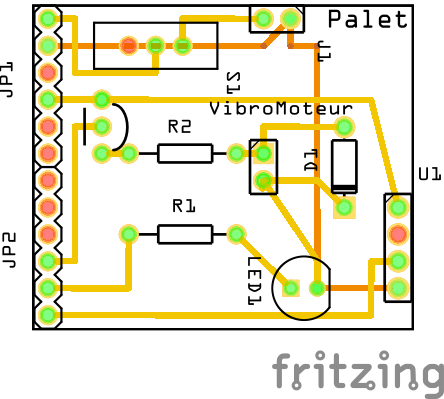
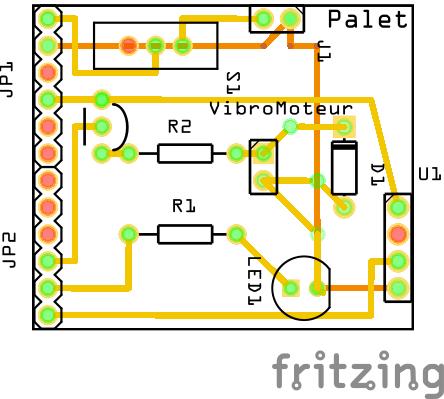
Correction d'une erreur sur le PCB

diff --git a/Sources/Palet/test_palet/Config.h b/Sources/Palet/test_palet/Config.h
@@ -2,7 +2,7 @@
 #define _CONFIG
 
 int DELAY = 5; // temps de desactivation apres reception de trame
-int PINLED = 12; // numero pin LED
-int PINVIBRO = 10; // numero pin moteur vibration
+int PINLED = 11; // numero pin LED
+int PINVIBRO = 12; // numero pin moteur vibration
 
 #endif
